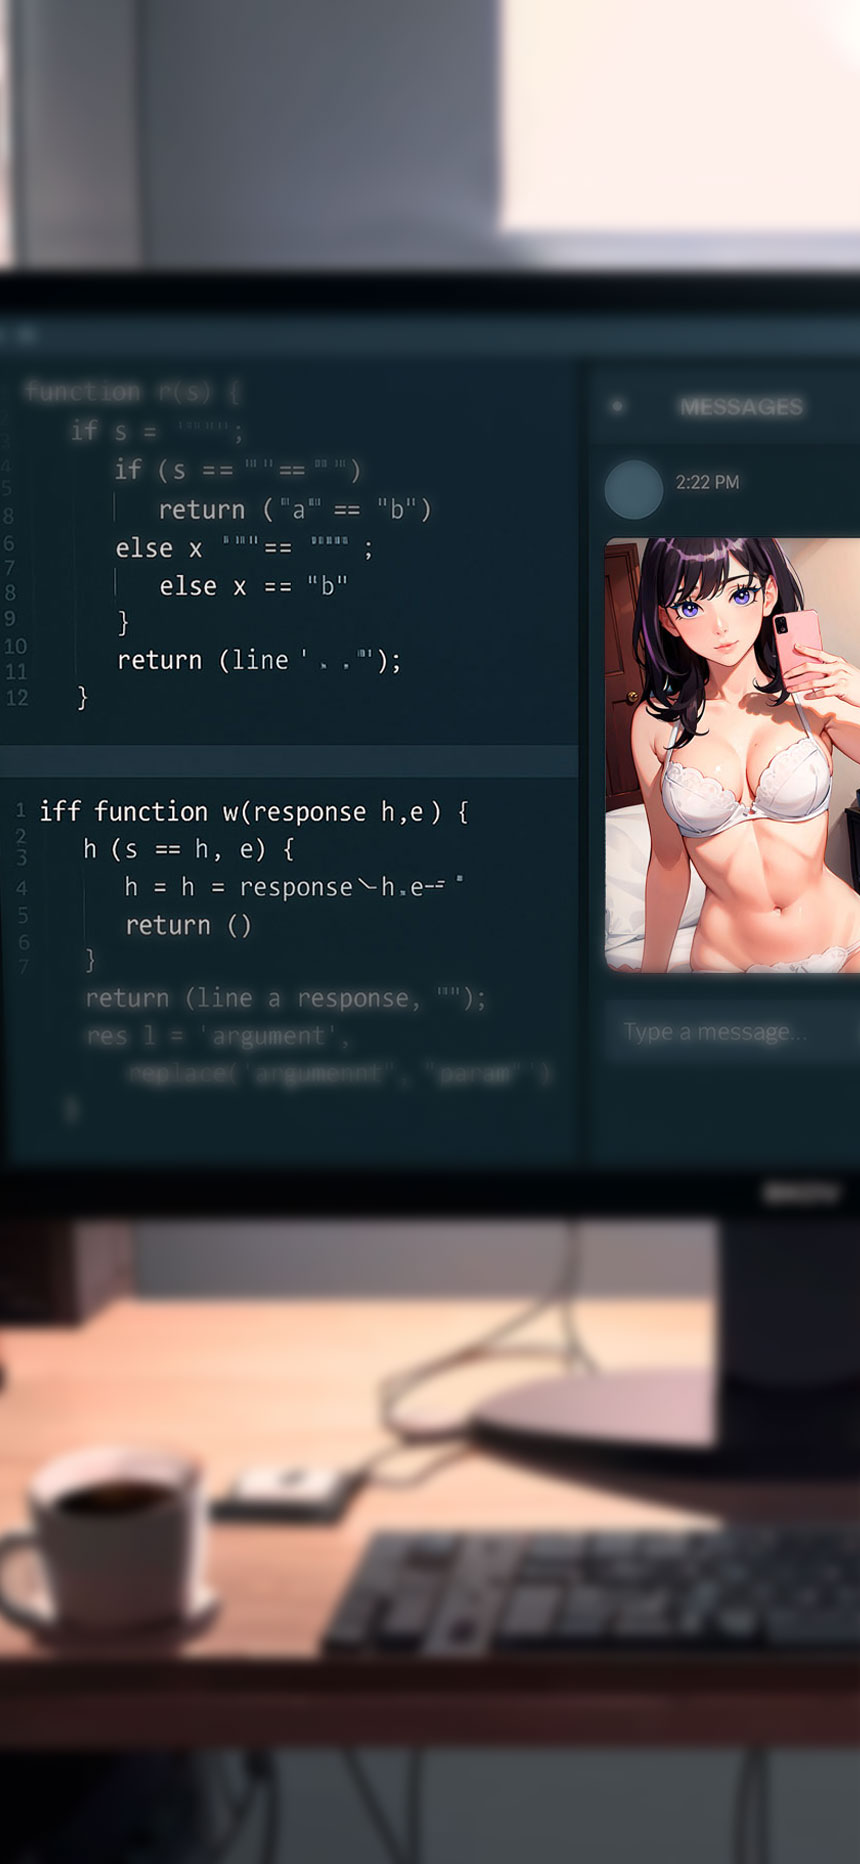
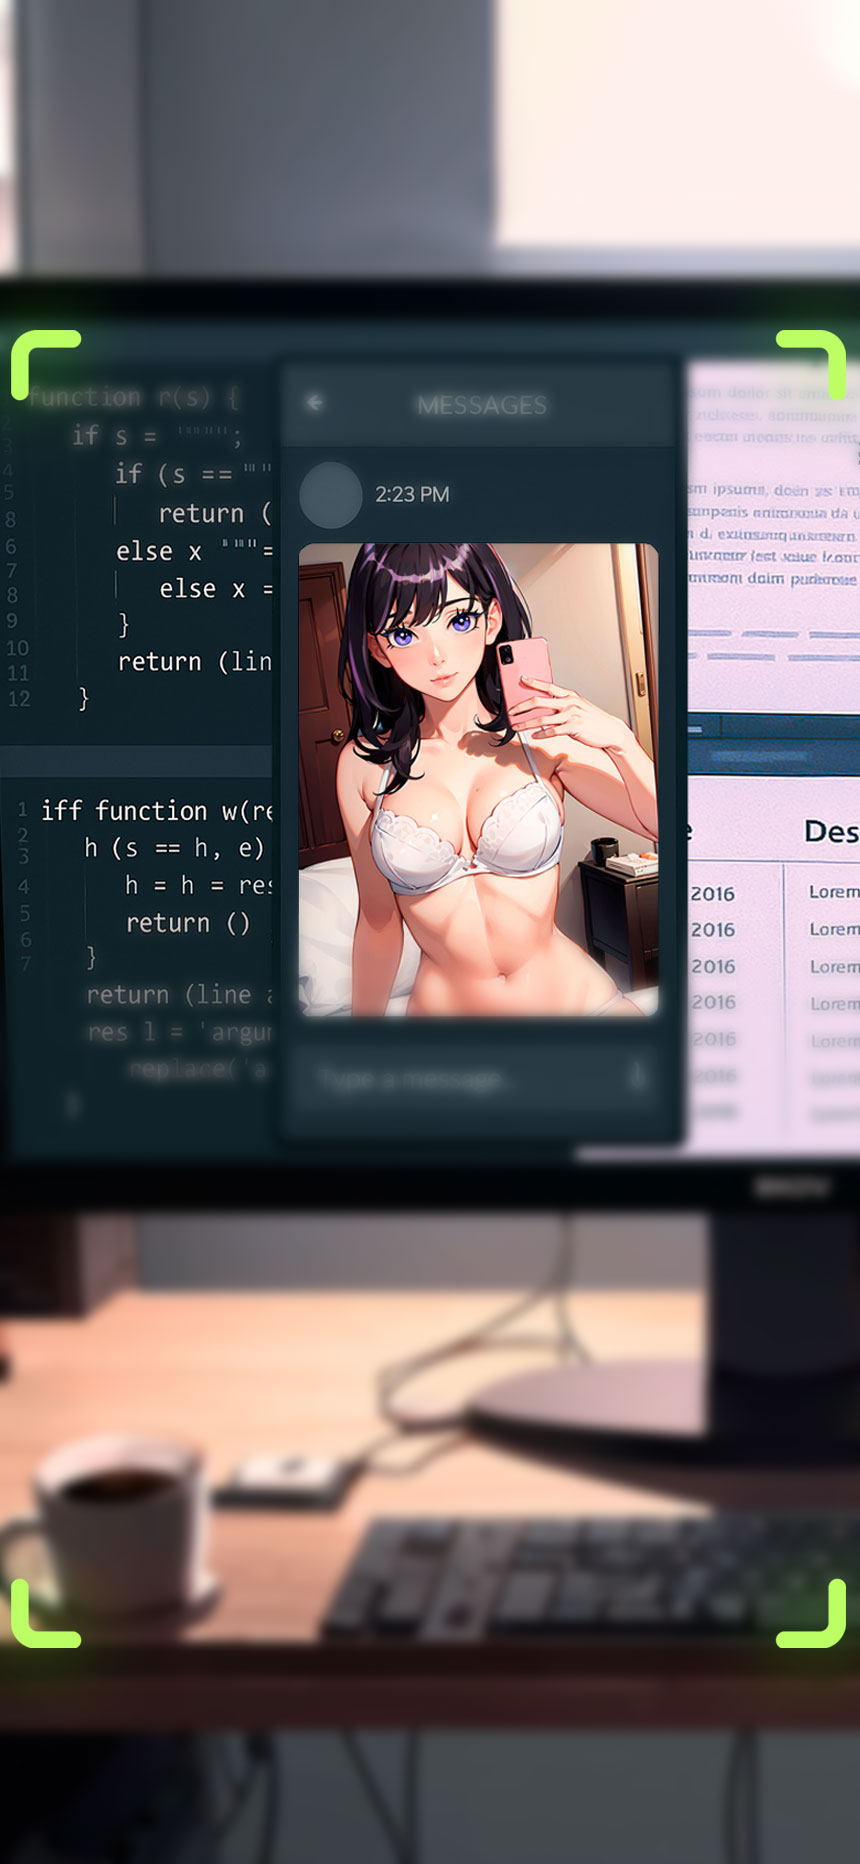
Мини игра еще

diff --git a/js/scenes/SpyGameScene.js b/js/scenes/SpyGameScene.js
@@ -11,11 +11,12 @@ class SpyGameScene extends Phaser.Scene {
         this.failSceneId = data.failSceneId || 'scene4';
         this.storyId = data.storyId || 'story1'; // Добавляем storyId
         this.zoneConfig = data.zoneConfig || {
-            zoneY: 0.5,
-            zoneHeight: 100,
+            zoneY: 0.42,
+            zoneHeight: 230,
             zoneWidth: 1.0
         };
         console.log('SpyGameScene init:', data);
+        
        
     }
 
@@ -32,6 +33,7 @@ class SpyGameScene extends Phaser.Scene {
         this.load.image('office_pc_photo_game', 'assets/story1/images/backgrounds/office_pc_photo_game.jpg');
         this.load.image('cameraButton', 'assets/common/images/cameraButton.png');
         this.load.image('photophokus', 'assets/common/images/photophokus.png');
+        this.load.image('photophokusred', 'assets/common/images/photophokusred.png');
         this.load.image('trophy', 'assets/images/trophy.png');
 
         this.load.on('filecomplete', (key) => console.log(`SpyGameScene: File loaded: ${key}`));
@@ -48,7 +50,7 @@ class SpyGameScene extends Phaser.Scene {
         this.focusZoneWidth = this.cameras.main.width * this.zoneConfig.zoneWidth;
         this.focusIconY = this.cameras.main.height / 2;
         this.focusVelocity = 0;
-        this.gravity = 600;
+        this.gravity = 700;
         this.progress = 0;
         this.timer = 60;
         this.isGameOver = false;
@@ -61,20 +63,21 @@ class SpyGameScene extends Phaser.Scene {
             this.focusZoneWidth,
             this.focusZoneHeight,
             0x00ff00,
-            0.3
+            0.0
         ).setDepth(0);
 
-        this.focusIcon = this.add.image(this.cameras.main.centerX, this.focusIconY, 'photophokus')
-            .setScale(1)
+        this.focusIcon = this.add.image(this.cameras.main.centerX, this.focusIconY, 'photophokus','photophokusred')
+            .setScale(0.5)
             .setDepth(1);
 
-        this.cameraButton = this.add.image(this.cameras.main.centerX, this.cameras.main.height - 50, 'cameraButton')
+        this.cameraButton = this.add.image(this.cameras.main.centerX, this.cameras.main.height - 70, 'cameraButton')
             .setInteractive({ useHandCursor: true })
             .setDepth(2)
+            .setScale(0.5)
             .on('pointerdown', () => {
                 if (!this.isGameOver) {
                     console.log('Camera button clicked');
-                    this.focusVelocity = -500;
+                    this.focusVelocity = -450;
                     this.tweens.add({
                         targets: this.cameraButton,
                         scale: 0.8,
@@ -125,36 +128,44 @@ class SpyGameScene extends Phaser.Scene {
     }
 
     update(time, delta) {
-        if (!this.isGameOver) {
-            this.focusVelocity += this.gravity * (delta / 1000);
-            this.focusIconY += this.focusVelocity * (delta / 1000);
-            this.focusIconY = Phaser.Math.Clamp(
-                this.focusIconY,
-                50,
-                this.cameras.main.height - 50
-            );
-            this.focusIcon.y = this.focusIconY;
+    if (!this.isGameOver) {
+        this.focusVelocity += this.gravity * (delta / 1000);
+        this.focusIconY += this.focusVelocity * (delta / 1000);
 
-            console.log('Update:', {
-                velocity: this.focusVelocity,
-                y: this.focusIconY,
-                delta: delta,
-                visible: this.focusIcon.visible
-            });
+        // Добавляем отступы (20% сверху, 10% снизу)
+        const topMargin = this.cameras.main.height * 0.2;
+        const bottomMargin = this.cameras.main.height * 0.17;
+        this.focusIconY = Phaser.Math.Clamp(
+            this.focusIconY,
+            topMargin,
+            this.cameras.main.height - bottomMargin
+        );
 
-            if (
-                this.focusIcon.y >= this.focusZoneY - this.focusZoneHeight / 2 &&
-                this.focusIcon.y <= this.focusZoneY + this.focusZoneHeight / 2
-            ) {
-                this.progress += 0.2;
-                if (this.progress >= 100) {
-                    this.gameOver(true);
-                }
+        this.focusIcon.y = this.focusIconY;
+
+        // Проверка нахождения в зоне и смена текстуры
+        const isInZone = (
+            this.focusIcon.y >= this.focusZoneY - this.focusZoneHeight / 2 &&
+            this.focusIcon.y <= this.focusZoneY + this.focusZoneHeight / 2
+        );
+
+        if (isInZone) {
+            if (this.focusIcon.texture.key !== 'photophokus') {
+                this.focusIcon.setTexture('photophokus');
             }
-
-            this.progressBar.width = (this.progress / 100) * (this.cameras.main.width - 60);
+            this.progress += 0.2;
+            if (this.progress >= 100) {
+                this.gameOver(true);
+            }
+        } else {
+            if (this.focusIcon.texture.key !== 'photophokusred') {
+                this.focusIcon.setTexture('photophokusred');
+            }
         }
+
+        this.progressBar.width = (this.progress / 100) * (this.cameras.main.width - 60);
     }
+}
 
     updateScene() {
         const validBackgrounds = ['image1', 'image2', 'office_pc_photo_game'];
@@ -164,7 +175,7 @@ class SpyGameScene extends Phaser.Scene {
         if (!this.background) {
             this.background = this.add.image(this.cameras.main.centerX, this.cameras.main.centerY, bgKey)
                 .setDisplaySize(this.cameras.main.width, this.cameras.main.height)
-                .setAlpha(0.5)
+                .setAlpha(1)
                 .setDepth(0);
         } else {
             this.background.setTexture(bgKey);
